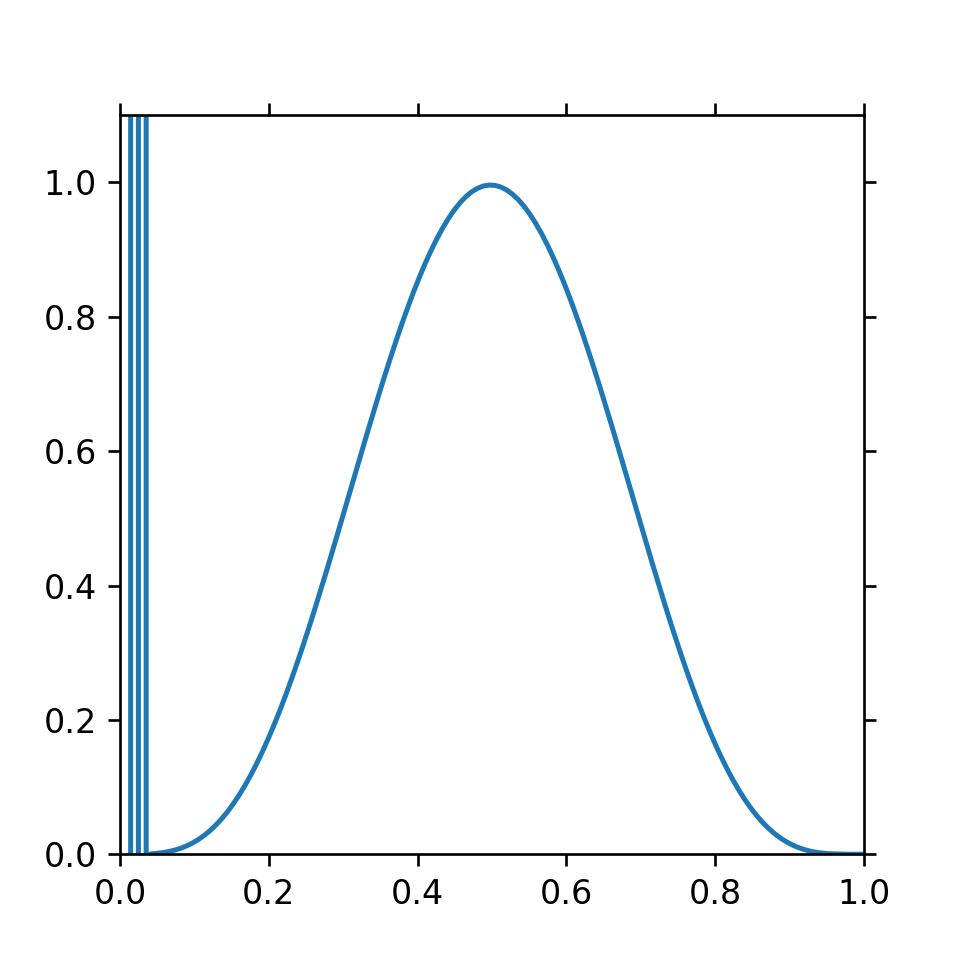
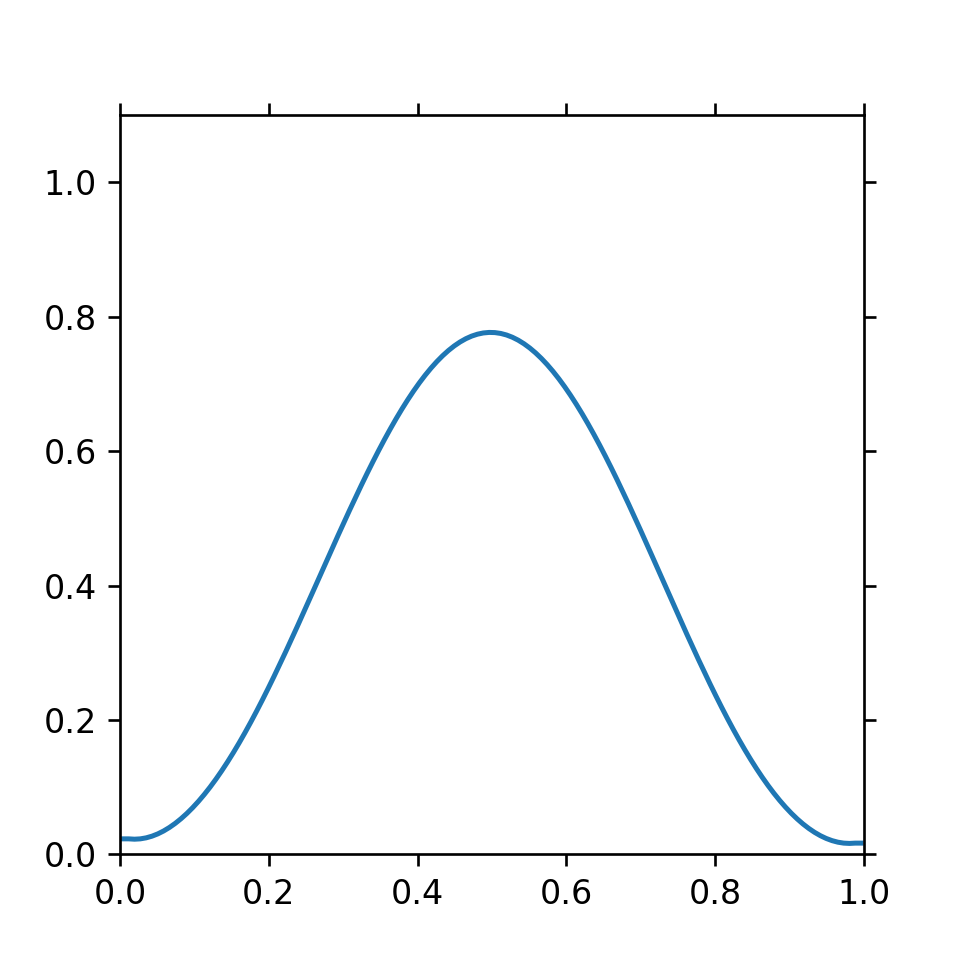
Fixed the update for Pi

diff --git a/main.py b/main.py
@@ -149,15 +149,12 @@ def main():
 
         J = (Pi * vx_dx - (zeta / tau_nu * vx_dx + Pi / tau_nu))
         
-        print(Pi*vx_dx)
-        #print(J)
+        
 
         rho    = modified_RungeKutta(rho,   applyFluxes( flux_Mass_XR,   flux_Mass_XL,   dx),    dt)
         vx     = np.divide(modified_RungeKutta(Momx,  applyFluxes( flux_Momx_XR,   flux_Momx_XL,   dx),    dt), rho,
                          out=np.zeros_like(modified_RungeKutta(Momx,  applyFluxes( flux_Momx_XR,   flux_Momx_XL,   dx), dt)), where=rho!=0)
-        Pi     = np.divide(modified_RungeKutta(Pi, applyFluxes( flux_Pi_vxR,    flux_Pi_vxL,    dx, J), dt), vx,
-                         out=np.zeros_like(modified_RungeKutta(Pi, applyFluxes( flux_Pi_vxR,    flux_Pi_vxL,    dx, J), dt)), where=vx!=0)
-        
+        Pi     = modified_RungeKutta(Pi, applyFluxes( flux_Pi_vxR,    flux_Pi_vxL,    dx, J), dt)
         
 
         #-----------------------------------------------------------------------------------------------------------------------------------#
